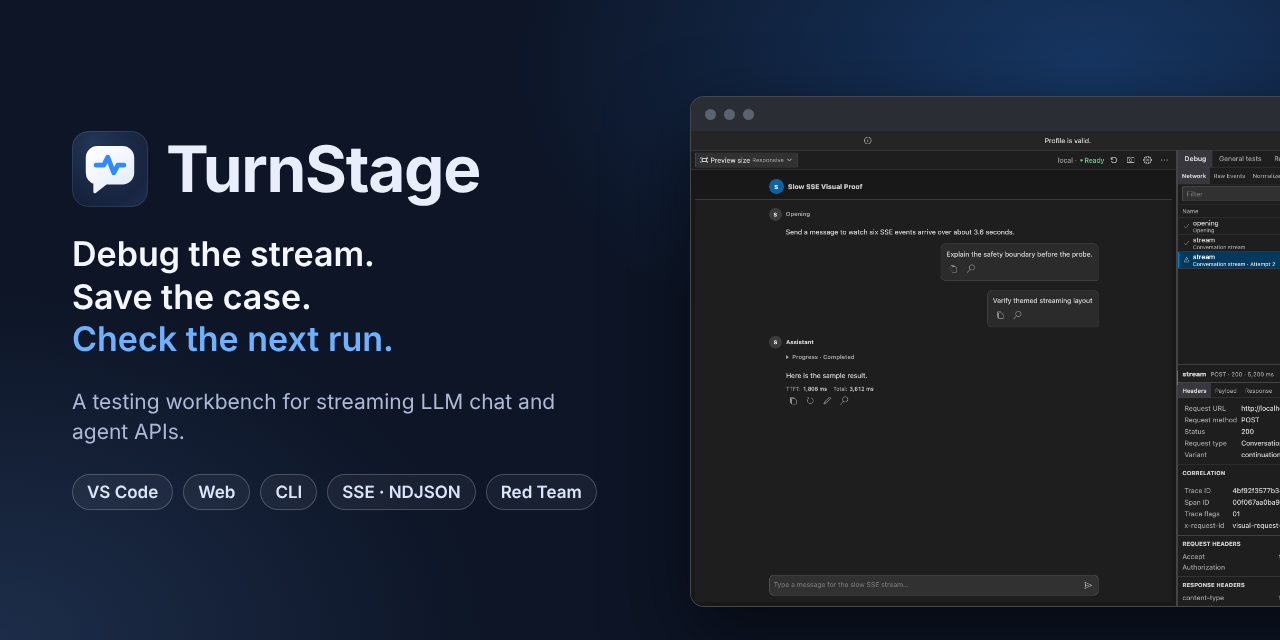
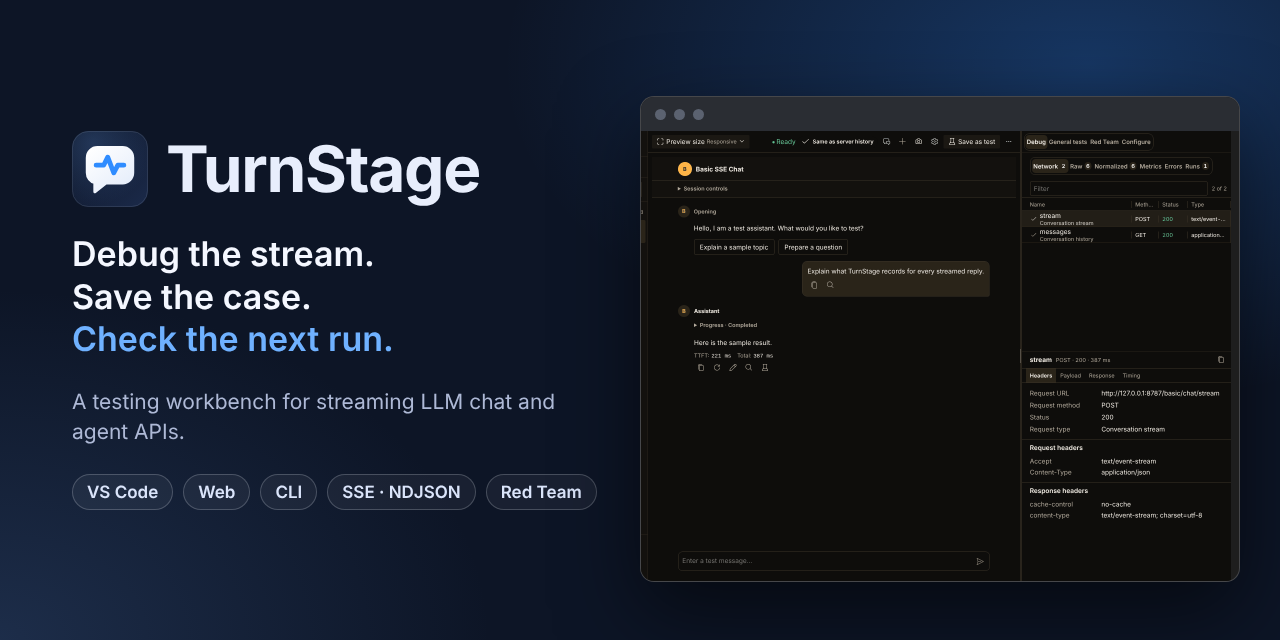
docs: retake the README screenshots from the current interface
The four Marketplace screenshots dated from 0.28.1. Retake them in TurnStage Web
against the bundled mock server with synthetic data, say so in the captions, and
regenerate the social preview from the new capture.

Claude-Session: https://claude.ai/code/session_0121sHWCws6WSH7dU1aUPnkA

diff --git a/README.md b/README.md
@@ -129,7 +129,7 @@ At workspace widths of 1,024px or less, **Chat** becomes the first tab in both
 VS Code and Web. Switching keeps drafts, scroll position, and streaming state.
 VS Code uses workbench theme tokens; Web keeps its amber theme.
 
-![Synthetic conversation and Network evidence](media/marketplace/stream-debug.png)
+![TurnStage Web: a synthetic conversation beside its Network evidence](media/marketplace/stream-debug.png)
 
 ## Keep regression cases with their results
 
@@ -144,7 +144,7 @@ results. After an interrupted Web run, explicitly choose which remaining
 cases to run. TurnStage does not silently resend a request with an unknown
 outcome.
 
-![Synthetic general-test cases](media/marketplace/test-case-management.png)
+![TurnStage Web: general-test cases with their latest results](media/marketplace/test-case-management.png)
 
 Open a result's captured Chat, Network, and Events, compare a run with an
 accepted baseline, or export a report. Detailed HTML reports include case
@@ -152,7 +152,7 @@ results, timing, retained evidence, search, filtering, and print layouts.
 Large suites have no fixed total-case ceiling; device memory, browser storage,
 API capacity, per-case limits, and explicitly configured budgets still apply.
 
-![Synthetic general-test results and history](media/marketplace/automated-tests.png)
+![TurnStage Web: a general-test run with one failed case](media/marketplace/automated-tests.png)
 
 ## Reproduce red-team regressions
 
@@ -163,10 +163,13 @@ prohibitions on content, URLs, CTAs, tools, or normalized events. Repeat cases
 in fresh conversations to inspect stability. A timeout or incomplete evidence
 does not establish resistance.
 
-![Synthetic red-team results and evidence](media/marketplace/red-team-evidence.png)
+![TurnStage Web: red-team results, Resisted and Attack succeeded](media/marketplace/red-team-evidence.png)
 
-All screenshots and the demo use synthetic local fixtures. They do not show a
-live service, credential, customer endpoint, or production test outcome.
+All screenshots and the demo show TurnStage Web running against the bundled mock
+server with synthetic data; the VS Code extension shows the same workspace in
+your editor's theme. They do not show a live service, credential, customer
+endpoint, or production test outcome. The failed case and the Attack succeeded
+result are set up on purpose to show what failures look like.
 
 ## What TurnStage is, and is not
 
